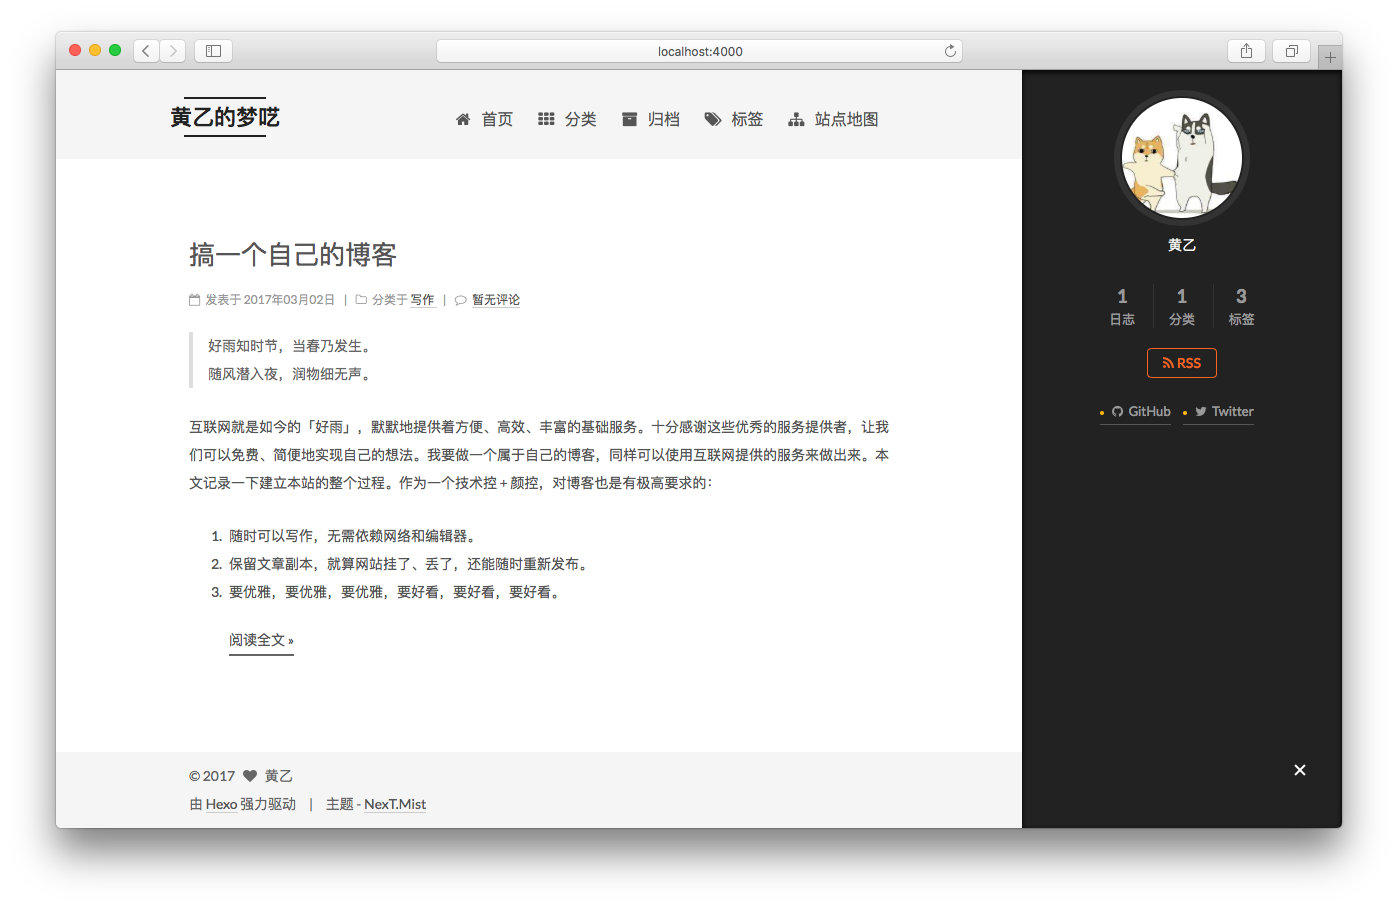
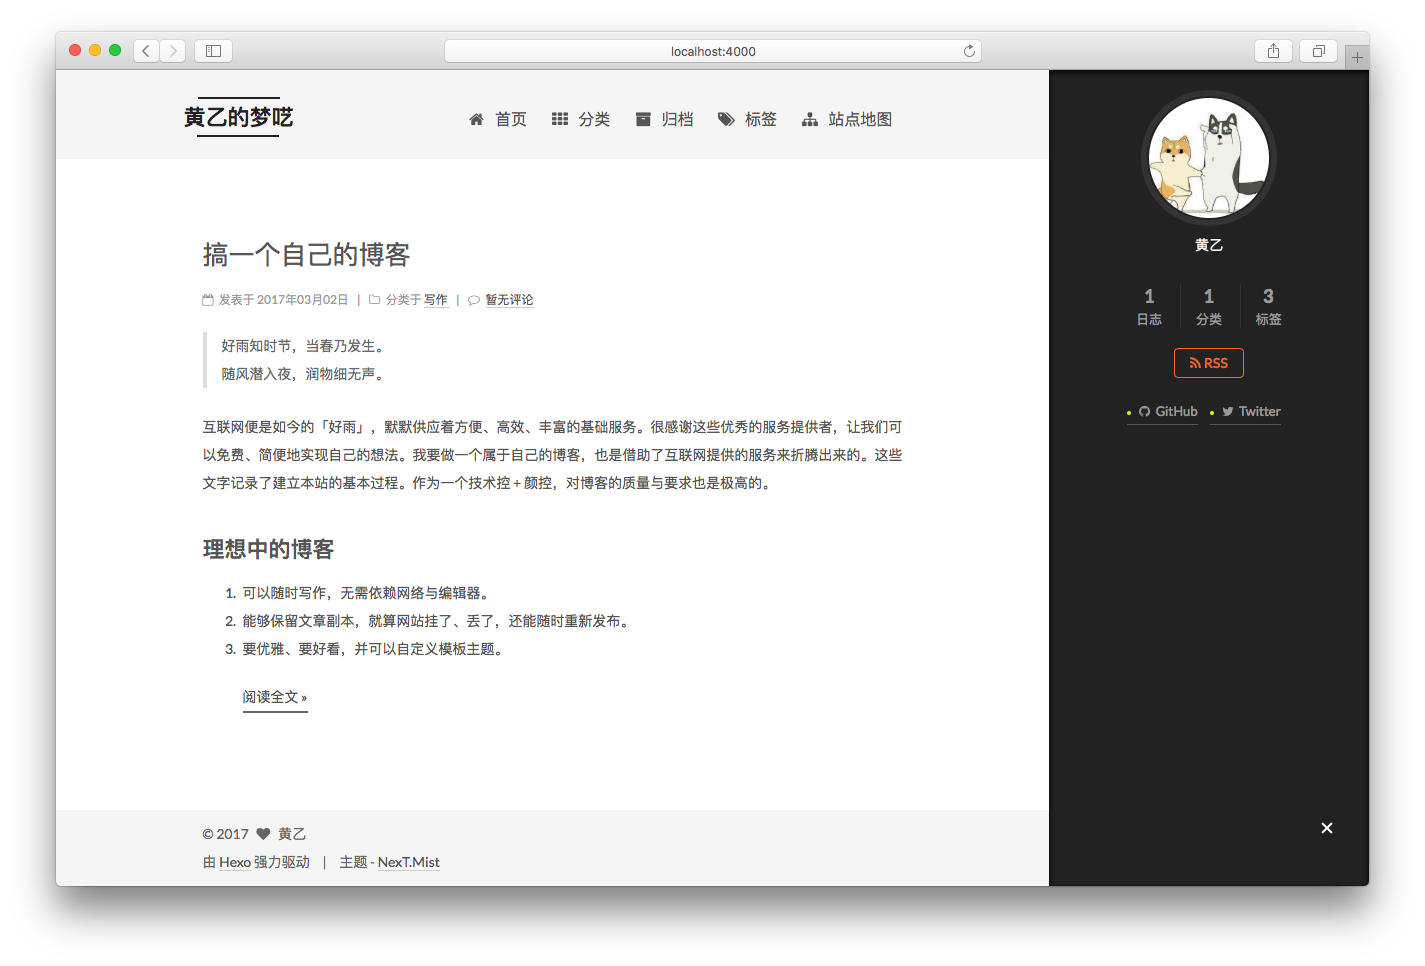
Blog updated @ 2017-03-06 12:15:15

diff --git a/css/main.css b/css/main.css
@@ -1698,7 +1698,7 @@ pre .javascript .function {
   width: 4px;
   height: 4px;
   border-radius: 50%;
-  background: #8bffff;
+  background: #bed4e9;
 }
 .links-of-blogroll {
   font-size: 13px;
